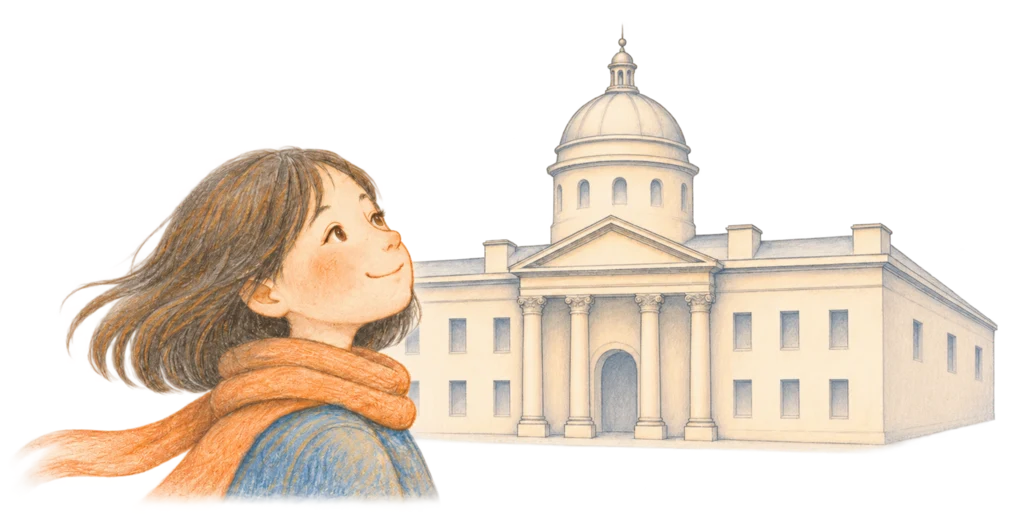
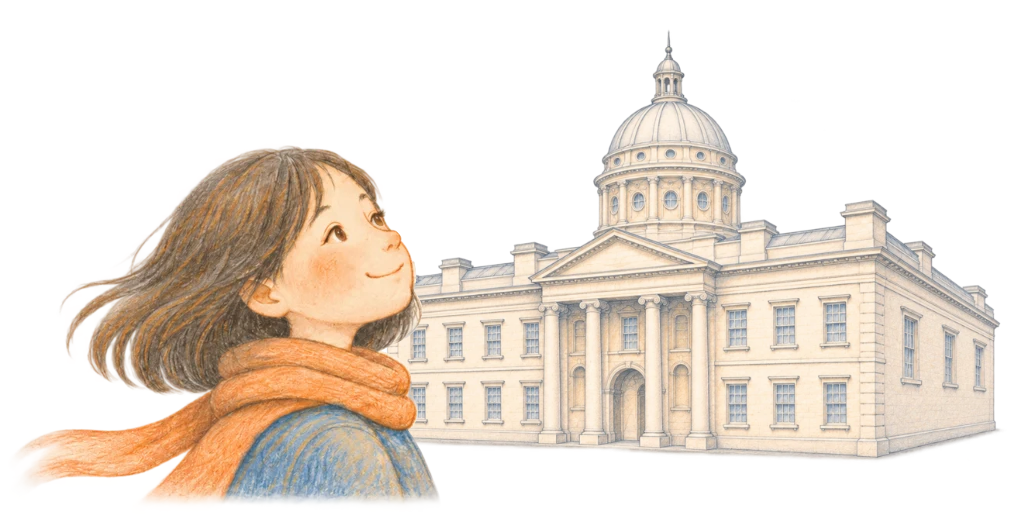
Layer a softer, more detailed Old College behind the existing figure

Changed region(s): [[0.375, 0.0612, 1.0, 0.8872]]

diff --git a/index.html b/index.html
@@ -212,7 +212,7 @@ html body main#page-top #about > .old-college-banner > img {
 </style>
 </head>
 <body><main id="page-top"><header class="site-brand brand-home"><h1 class="site-name">Maggie M. K. Chan</h1><p>Children’s literature, literacy and childhood</p><button type="button" class="site-mobile-menu-toggle" aria-expanded="false" aria-controls="site-mobile-navigation" aria-label="Open navigation menu">☰ MENU</button><nav id="site-mobile-navigation" class="accessible-nav" aria-label="Main navigation"><details class="site-nav-more"><summary>Home</summary><div class="site-nav-more-panel" aria-label="Home pages"><a href="./#about">About</a><a href="./#publications">Publications</a><a href="./#presentations">Presentations</a><a href="consultancy.html">Consultancy</a></div></details><details class="site-nav-more"><summary>Children’s Book Resources</summary><div class="site-nav-more-panel" aria-label="Children’s Book Resources pages"><a href="reading-lists.html">Picturebook Reading List</a><a href="authors.html">Authors</a><a href="illustrators.html">Illustrators</a><a href="book-awards.html">Book Awards</a></div></details><details class="site-nav-more"><summary>Academic Resources</summary><div class="site-nav-more-panel" aria-label="Academic Resources pages"><a href="academic-books.html">Academic Books</a><a href="journals.html">Journals</a><a href="professional-bodies.html">Professional Bodies</a><a href="conferences.html">Conferences</a></div></details><details class="site-nav-more"><summary>Educational Resources</summary><div class="site-nav-more-panel" aria-label="Educational Resources pages"><a href="reading-tools.html">Reading Tools</a><a href="educational-resources.html">Other Resources</a></div></details><a href="saved-books.html">Save to My List</a><a href="contact.html">Contact</a></nav></header><div class="site-actions"><div class="share-site" role="group" aria-label="Share this site"><span class="share-label">Share this site</span><a class="share-button" href="https://www.facebook.com/sharer/sharer.php?u=https%3A%2F%2Fmaggiemkchanuk.github.io%2F" target="_blank" rel="noopener noreferrer" aria-label="Share on Facebook" title="Share on Facebook"><span aria-hidden="true">f</span></a><a class="share-button" href="https://twitter.com/intent/tweet?url=https%3A%2F%2Fmaggiemkchanuk.github.io%2F&amp;text=Maggie+M.+K.+Chan" target="_blank" rel="noopener noreferrer" aria-label="Share on X" title="Share on X"><span aria-hidden="true">𝕏</span></a><a class="share-button" href="https://www.linkedin.com/sharing/share-offsite/?url=https%3A%2F%2Fmaggiemkchanuk.github.io%2F" target="_blank" rel="noopener noreferrer" aria-label="Share on LinkedIn" title="Share on LinkedIn"><span aria-hidden="true">in</span></a><a class="share-button" href="https://wa.me/?text=Maggie+M.+K.+Chan+https%3A%2F%2Fmaggiemkchanuk.github.io%2F" target="_blank" rel="noopener noreferrer" aria-label="Share on WhatsApp" title="Share on WhatsApp"><span aria-hidden="true">WA</span></a><button type="button" class="share-button" id="share-copy" aria-label="Copy website link" title="Copy website link"><span aria-hidden="true">⧉</span></button><p id="share-status" role="status"></p><input id="share-url" aria-label="Website link" type="url" value="https://maggiemkchanuk.github.io/" readonly hidden></div></div>
-<section id="about"><div class="old-college-banner" style="display:flex!important;flex-direction:column!important;align-items:center!important;gap:.2rem!important;margin:.15rem auto .35rem!important;padding:0!important"><h2 style="text-align:center!important;width:100%!important;margin:0!important">About</h2><img src="banner-art/old-college.webp" width="1024" height="523" alt="A girl in an orange scarf looking up beside the columns and dome of Edinburgh’s Old College" decoding="async"></div>
+<section id="about"><div class="old-college-banner" style="display:flex!important;flex-direction:column!important;align-items:center!important;gap:.2rem!important;margin:.15rem auto .35rem!important;padding:0!important"><h2 style="text-align:center!important;width:100%!important;margin:0!important">About</h2><img src="banner-art/old-college.webp?v=college-detail" width="1024" height="523" alt="A girl in an orange scarf looking up beside the columns and dome of Edinburgh’s Old College" decoding="async"></div>
 <div class="about-layout"><div class="about-copy">
 <p>I am a UK-based Postdoctoral Research Fellow at the University of KwaZulu-Natal in South Africa. My research focuses on gender and sexuality in childhood and education. My wider research interests include children’s literature, literacy, disability and neurodivergence, multimodal storytelling and cultural identity in Chinese diasporic children’s literature.</p>
 <p>I have taught at the University of Edinburgh, University College London and The Chinese University of Hong Kong. I have also worked as a support worker with the University of Edinburgh’s Disability and Learning Support Service. I review books for IBBY UK’s <a href="https://www.ibby.org/awards-activities/activities/ibby-collection-for-young-people-with-disabilities" target="_blank" rel="noopener"><em>Selection of Outstanding Books for Young People with Disabilities</em></a> and have contributed to <a href="https://www.bethcox.co.uk/projects" target="_blank" rel="noopener"><em>Reflecting Disability</em></a>, a project supported by Arts Council England.</p>

diff --git a/consultancy.html b/consultancy.html
@@ -43,7 +43,7 @@ html body main#page-top .literature-page-banner > img[src="maggie-chan-cafe.jpg"
 }
 </style>
 </head><body><main id="page-top"><header class="site-brand brand-consultancy"><a class="site-name" href="./">Maggie M. K. Chan</a><p>Children’s literature, literacy and childhood</p><button type="button" class="site-mobile-menu-toggle" aria-expanded="false" aria-controls="site-mobile-navigation" aria-label="Open navigation menu">☰ MENU</button><nav id="site-mobile-navigation" class="accessible-nav" aria-label="Main navigation"><details class="site-nav-more"><summary>Home</summary><div class="site-nav-more-panel" aria-label="Home pages"><a href="./#about">About</a><a href="./#publications">Publications</a><a href="./#presentations">Presentations</a><a href="consultancy.html" aria-current="page">Consultancy</a></div></details><details class="site-nav-more"><summary>Children’s Book Resources</summary><div class="site-nav-more-panel" aria-label="Children’s Book Resources pages"><a href="reading-lists.html">Picturebook Reading List</a><a href="authors.html">Authors</a><a href="illustrators.html">Illustrators</a><a href="book-awards.html">Book Awards</a></div></details><details class="site-nav-more"><summary>Academic Resources</summary><div class="site-nav-more-panel" aria-label="Academic Resources pages"><a href="academic-books.html">Academic Books</a><a href="journals.html">Journals</a><a href="professional-bodies.html">Professional Bodies</a><a href="conferences.html">Conferences</a></div></details><details class="site-nav-more"><summary>Educational Resources</summary><div class="site-nav-more-panel" aria-label="Educational Resources pages"><a href="reading-tools.html">Reading Tools</a><a href="educational-resources.html">Other Resources</a></div></details><a href="saved-books.html">Save to My List</a><a href="contact.html">Contact</a></nav></header><div class="site-actions"></div><div class="unified-page-intro">
-<header><div class="literature-page-banner"><h1>Consultancy</h1><img src="banner-art/old-college.webp" width="1024" height="523" alt="A girl in an orange scarf looking up beside the columns and dome of Edinburgh’s Old College" decoding="async"></div><p class="compact-page-intro">I offer consultancy on children’s literature, literacy and education, and advise prospective students about studying in the UK.</p><figure class="page-visual"><img src="lisbon-picturebook-research-2025.jpg" width="960" height="720" style="height:auto" alt="Maggie M. K. Chan on stage at the European Network of Picturebook Research Conference in Lisbon" decoding="async"><figcaption>European Network of Picturebook Research Conference, Lisbon, 2025</figcaption></figure></header></div>
+<header><div class="literature-page-banner"><h1>Consultancy</h1><img src="banner-art/old-college.webp?v=college-detail" width="1024" height="523" alt="A girl in an orange scarf looking up beside the columns and dome of Edinburgh’s Old College" decoding="async"></div><p class="compact-page-intro">I offer consultancy on children’s literature, literacy and education, and advise prospective students about studying in the UK.</p><figure class="page-visual"><img src="lisbon-picturebook-research-2025.jpg" width="960" height="720" style="height:auto" alt="Maggie M. K. Chan on stage at the European Network of Picturebook Research Conference in Lisbon" decoding="async"><figcaption>European Network of Picturebook Research Conference, Lisbon, 2025</figcaption></figure></header></div>
 <section aria-labelledby="support"><h2 id="support">Children’s books and public programmes</h2><div class="cards">
 <article><h3>Reading lists and book selection</h3><p>I develop annotated reading lists for schools, libraries, publishers and community programmes. Selections can explore themes such as disability and neurodiversity, cultural identity, or childhood and belonging, with books chosen for your audience and purpose.</p></article>
 <article><h3>Reading sessions, workshops and exhibitions</h3><p>I design and lead shared reading sessions and workshops for children, families and professionals. Activities can include close looking, visual storytelling and creative responses alongside discussion. I also work with cultural and education partners to curate picturebook exhibitions, from selecting books and shaping the display to planning activities for visitors.</p></article>
